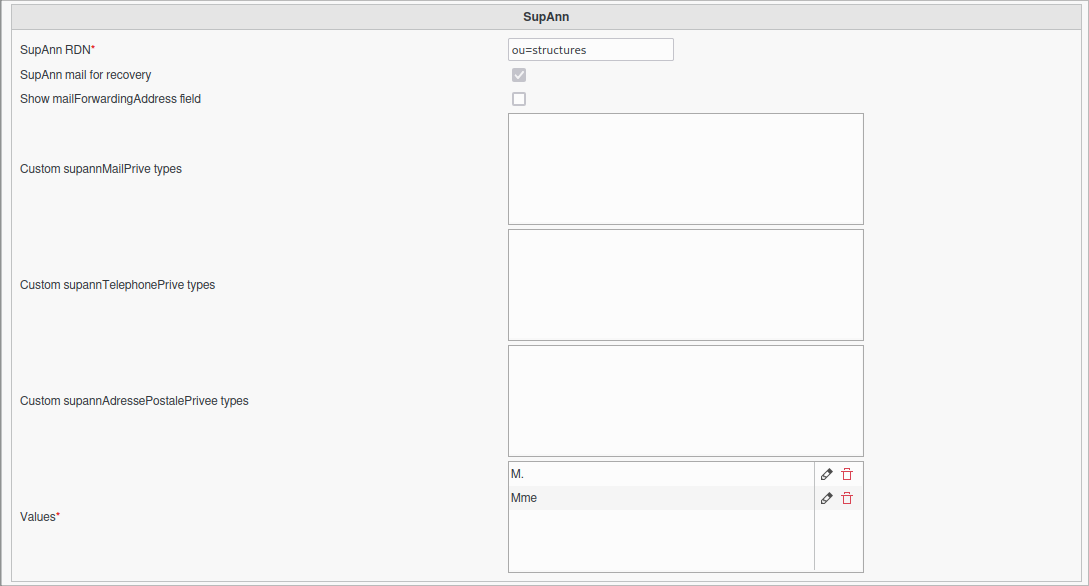
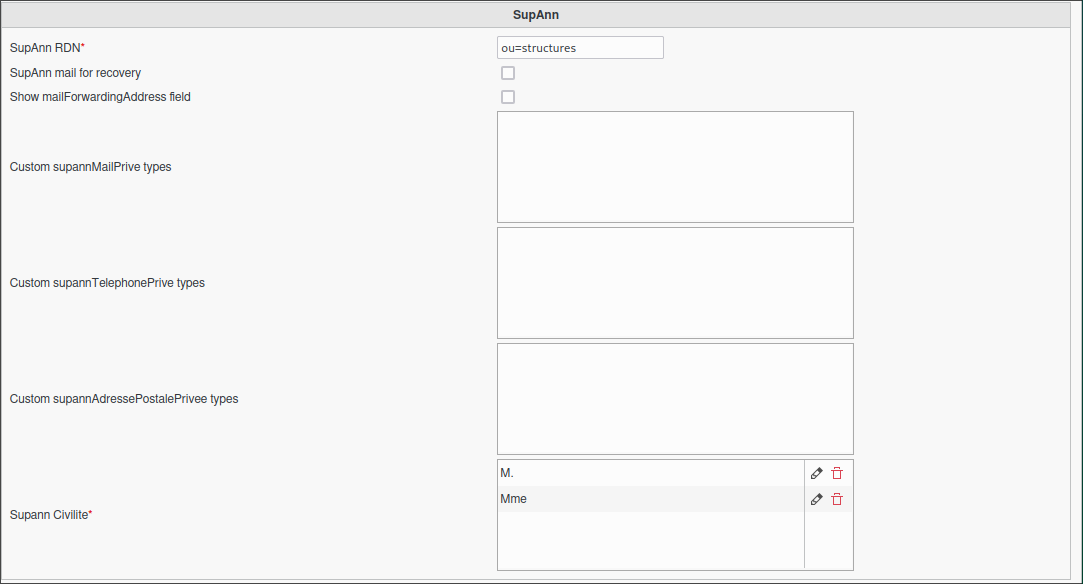
:sparkles: Feat(User-manual) - enhance supann documentation
Enhance plugin supann backend configuration p6

diff --git a/source/fusiondirectory/plugins/supann/configuration.rst b/source/fusiondirectory/plugins/supann/configuration.rst
@@ -17,10 +17,8 @@ The default pattern is:
 
 This pattern determines how the `cn` attribute is structured within FusionDirectory.
 
-Configure SupAnn Status
+Configure SupAnn Options
 ------------------------
-
-To configure the SupAnn status in FusionDirectory, follow these steps:
 
 1. Click on the **Configuration** icon on the FusionDirectory main page.
 
@@ -39,12 +37,19 @@ To configure the SupAnn status in FusionDirectory, follow these steps:
 
 4. The SupAnn configuration menu will appear:
 
-   - **SupAnn RDN**: Specifies the branch where SupAnn structures will be stored (required).
-   - **SupAnn mail for recovery**: Allows password recovery using email addresses from the personal mail field in a SupAnn account.
-   - **Custom resources**: Defines custom resources and their labels.
+- **SupAnn RDN**: Defines the branch where SupAnn structures will be stored (**required**).
+- **SupAnn Mail for Recovery**: Enables password recovery using email addresses from the personal mail field in a SupAnn account.
+- **Show mailForwardingAddress Field**: Displays the **mailForwardingAddress** attribute, making it available and editable in individual user configurations.
+- **Custom supannMailPrivee Types**: Allows you to define a **Type** and a **Label** for private email addresses, following SupAnn guidelines.
+- **Custom supannTelephonePrive Types**: Enables defining a **Type** and a **Label** for private phone numbers, in accordance with SupAnn standards.
+- **Custom supannAdressePostalePrivee Types**: Permits the definition of a **Type** and a **Label** for private postal addresses, ensuring compliance with SupAnn guidelines.
+- **SupAnn Civilité**: Expands available titles beyond "M." and "Mme." to provide greater inclusivity, following SupAnn recommendations.
 
    .. image:: images/supann-configuration-menu_1.png
       :alt: SupAnn configuration menu in FusionDirectory
+
+Configure SupAnn Resources
+--------------------------
 
 **In order to configure a new resource:**
     1. Fill in the appropriate fields as shown below.
@@ -62,9 +67,12 @@ To configure the SupAnn status in FusionDirectory, follow these steps:
 
 - **Custom Labels**: Defines labels for custom substates.
 
+**Overview of Supann Resources configuration section**
 
-Example: Adding a "Lost" Substate
------------------------------------
+   .. image:: images/supann-configuration-menu_2.png
+      :alt: SupAnn configuration menu in FusionDirectory
+
+*Example: Adding a "Lost" Substate*
 
 To add the substate **Perdu** (Lost) under the "Library" resource:
 
@@ -74,10 +82,19 @@ To add the substate **Perdu** (Lost) under the "Library" resource:
 Once all settings are configured, click **OK** at the bottom right.
 
 
-Configure Multiservice Card
-----------------------------
+Configure Supann Multiservice Card
+----------------------------------
 
-The **Multiservice Card** settings allow configuration of various card-related parameters. Below is an overview:
+**Configuration Options**
+
+The **Multiservice Card** settings allow configuration of various card-related parameters.
+
+- **Card types**: Defines available card types and their labels. Prefix non-standard types with `{ORIGIN}`.
+- **Card sources**: Specifies possible sources for multiservice cards, using the format `system@domain`.
+- **Card formats**: Lists allowed formats for multiservice cards.
+- **Card application domains**: Defines the domains in which card applications are valid.
+
+*Below is an overview:*
 
    .. image:: images/supann-multiservice-card-settings_1.png
       :alt: Multiservice Card settings in FusionDirectory
@@ -85,17 +102,18 @@ The **Multiservice Card** settings allow configuration of various card-related p
    .. image:: images/supann-multiservice-card-settings_2.png
       :alt: Multiservice Card settings continuation in FusionDirectory
 
-Configuration Options
-----------------------
 
-- **Card types**: Defines available card types and their labels. Prefix non-standard types with `{ORIGIN}`.
-- **Card sources**: Specifies possible sources for multiservice cards, using the format `system@domain`.
-- **Card formats**: Lists allowed formats for multiservice cards.
-- **Card application domains**: Defines the domains in which card applications are valid.
+Configure SupAnn Consent
+------------------------
 
-Below is the configuration for "consent", where consent objects as well as consent types can be configured. The important features panel allows activating or deactivating features appearing on the individual user configuration page.
+The following configuration allows you to define **consent objects** and **consent types** within SupAnn.
 
-SupAnn Status is by default ticked, allowing to have a specific status on resources linked to the individual account. Multiservice card and FranceConnect integrate the same behavior. You have the flexibility to use those SupAnn features if so desired.
+The **Important Features** panel enables activation or deactivation of specific features displayed on the individual user configuration page.
+
+By default, **SupAnn Status** is enabled, allowing accounts to have a designated status for resources linked to them.
+The **Multiservice Card** and **FranceConnect** follow the same behavior, providing seamless integration.
+
+You have the flexibility to enable or disable these SupAnn features based on your requirements.
 
    .. image:: images/supann-configuration-menu_4.png
       :alt: SupAnn configuration menu continuation in FusionDirectory
